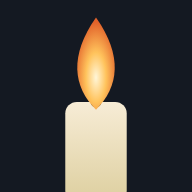
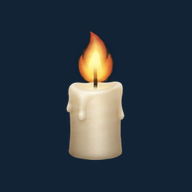
The shelf: headroom, lit plates, her disc in the plinth, her candle
Five things she asked for after seeing it on the phone.

The shelves were too shallow for the cards, which stood at the front lip
of each board and read as propped in front of the furniture rather than
sitting in it. Every shelf now has the same 132px between its ceiling and
where a card's foot lands, got by stretching the flat dark band of back
panel inside each one -- boards, rails, crown and plinth all carried
across rigid, so no joinery moved. The photograph goes from 1088 to 1232
tall and the measurement table with it. A card's foot sits 18px behind the
front lip, so the lit top of the board shows in front of it.

The three upper brass plates sit in shadow and their names could not be
read: mean brightness 70-82 against 132 for the two lower ones. A lit
plate is set into each of those three sockets, feathered at the edge.

The names are no longer tracked out to span their brass. Only the long
ones fill it, which is the honest thing -- spread out, a short name read
as spaced rather than engraved.

Her brass disc is let into the middle of the plinth carving with the ?
engraved into it, and the loose ? button below the case is gone. It is
part of the furniture now, so it lives inside the case and takes the
case's scale, with a wider invisible reach around it for a thumb. With
nothing sitting under the case any more, the case stands on the floor of
the page instead of floating in the middle of it.

Her own candle replaces the drawn one, cut off its ground and wrapped
[…]

Changed region(s): [[0.3125, 0.0938, 0.6875, 1.0]]

diff --git a/index.html b/index.html
@@ -30,15 +30,20 @@
      disappears and the case simply stands on a wall */
   html,body{ height:100%; margin:0; background:#122336; color:#e2d6bb;
     font-family:'Cormorant Garamond', Georgia, serif; }
-  body{ display:flex; align-items:center; justify-content:center; padding:2vh 2vw; }
+  /* The case stands on the floor of the page rather than floating in the middle of
+     it: on a phone its width is what limits it, so centring left as much empty dark
+     below the plinth as above the crown. Nothing sits under it now that the ? has
+     moved onto the plinth itself. */
+  body{ display:flex; align-items:flex-end; justify-content:center;
+    padding:2vh 2vw 3vh; }
 
   /* The frame clips, so a zoomed-in shelf fills it instead of overflowing the page.
      The case must fit the viewport in BOTH directions -- sized by height alone it ran
-     off the sides of a phone and the shelves were cut in half. 1088/990 is the case's
+     off the sides of a phone and the shelves were cut in half. 1232/990 is the case's
      own proportion, so this is the tallest it can be and still fit across. */
   #frame{ position:relative; overflow:hidden; flex:none;
-    --h: min(95vh, calc(96vw * 1.09899), 1088px);
-    height:var(--h); width:calc(var(--h) / 1.09899); }
+    --h: min(95vh, calc(96vw * 1.24444), 1232px);
+    height:var(--h); width:calc(var(--h) / 1.24444); }
   /* Sizes here are fractions of the case's own height, so the lettering keeps its
      proportion to the furniture at every screen size. They cannot be written as
      "unit x px" -- --h is a length, and a length times a length is not a size, so
@@ -112,14 +117,19 @@
   #say-sagne{ top:16%; }
   #say-about{ bottom:9%; }
 
-  /* the quiet ? at the foot of the page */
-  #ask{ position:absolute; left:50%; bottom:1.2%; transform:translateX(-50%);
-    appearance:none; border:0; background:none; cursor:pointer; z-index:31;
-    font-family:inherit; font-size:clamp(18px, 2.4vh, 23px); line-height:1;
-    color:#f2e9d8; opacity:.34; padding:4px 10px; border-radius:8px;
-    transition:opacity .45s ease; }
-  #ask:hover, #ask:focus-visible, #ask[aria-expanded="true"]{ opacity:.9; }
-  #ask:focus-visible{ outline:1px solid rgba(242,233,216,.4); outline-offset:4px; }
+  /* Her brass disc, let into the middle of the plinth carving, with the ? cut into
+     it the way the names are cut into the plates. It is part of the furniture now,
+     so it sits inside the case and takes the case's own scale. */
+  #ask{ position:absolute; display:grid; place-items:center; z-index:3;
+    appearance:none; border:0; background:none; padding:0; font-family:inherit;
+    cursor:pointer; filter:drop-shadow(0 1px 2px rgba(0,0,0,.6)); }
+  #ask img{ grid-area:1/1; width:100%; height:100%; display:block; }
+  #ask i{ grid-area:1/1; font-style:normal; font-weight:700; line-height:1;
+    color:#33230a; text-shadow:0 1px 0 rgba(255,238,196,.5), 0 -1px 1px rgba(0,0,0,.35); }
+  /* A disc this size is a small target on a phone, so the reach around it is wider
+     than the brass. Invisible, and behind nothing else. */
+  #ask::before{ content:''; position:absolute; inset:-55%; }
+  #ask:focus-visible{ outline:1px solid rgba(242,233,216,.45); outline-offset:4px; }
 
   @media (prefers-reduced-motion: reduce){
     #case, .piece{ transition:none; }
@@ -134,6 +144,8 @@
       <div id="sheen"></div>
       <button type="button" id="oval" aria-expanded="false" aria-controls="say-sagne"
               aria-label="what is this?">sagne</button>
+      <button type="button" id="ask" aria-expanded="false" aria-controls="say-about"
+              aria-label="about sagne"><img src="shelfdisk.png" alt=""><i>?</i></button>
     </div>
 
     <!-- The two sayings the flat landing page carried, kept word for word: the one
@@ -143,8 +155,6 @@
       timers (except the tools which are timers), no links (except for location accuracy), no
       likes, no ads, no in-game purchases. nothing exciting, but hopefully something
       enjoyable.</p>
-    <button type="button" id="ask" aria-expanded="false" aria-controls="say-about"
-            aria-label="about sagne">?</button>
     <p class="saying" id="say-about">sagne has been designed by one person, programming by
       claude and images by gemini. it is a single individual's attempt to bring to digital
       life some of life's interesting modes and models. the lack of text and explanations
@@ -162,7 +172,7 @@
   // percentages, which had to be retyped by hand every time the picture changed.
   // ---------------------------------------------------------------------------
   var GEO = {
-    W:990, H:1088,
+    W:990, H:1232,
     interior:{ left:148, right:845 },     // the opening between the two stiles
     // Measured off the photograph by hue, not by eye: the brass rides olive where
     // the walnut around it runs red, which puts the ellipse at x 421..579,
@@ -170,29 +180,40 @@
     // deal taller than the brass, so the name sat low and off to one side of it.
     oval:{ x:421, y:74, w:158, h:49 },    // the brass oval on the crown
     plate:{ x:424, w:147, h:22 },         // the engraved area of a brass plate
+    disc:{ cx:495, cy:1160, d:50 },       // the brass disc, centred on the plinth shell
     card:{ w:76, h:100 },
-    // ceil = underside of the shelf above; surf = the surface this shelf's cards
-    // stand on; plateY = top of the brass plate on this shelf's front rail
+    // A card stands ON the board, not at the lip of it -- its foot goes back from
+    // the front edge by this much, so the lit top surface of the shelf shows in
+    // front of it. Standing them on the lip is what made them read as propped in
+    // front of the furniture rather than sitting in it.
+    seatBack:18,
+    // ceil = underside of the shelf above; surf = the FRONT LIP of the board this
+    // shelf's cards stand on; plateY = top of the brass plate on the front rail.
+    // Aug 2026: every shelf was given the same 132px of headroom between its
+    // ceiling and where a card's foot actually lands, by stretching the flat dark
+    // band of back panel inside each one -- the boards, rails, crown and plinth are
+    // all carried across rigid, so no joinery moved. That took the photograph from
+    // 1088 to 1232 tall, and these figures with it.
     shelves:[
-      { name:'instrumenta', ceil:144, surf:293, plateY:300,
+      { name:'instrumenta', ceil:144, surf:294, plateY:301,
         pieces:[['candler','candler/index.html','candler/candle-card.png'],
                 ['conometer','conometer/index.html','conometer/conometer-card.png'],
                 ['galileo','galileo/index.html','galileo/galileo-card.png'],
                 ['windower','windower/index.html','windower/windower-card.png'],
                 ['storm','storm/index.html','storm/storm-card.png']] },
-      { name:'tactilia', ceil:330, surf:448, plateY:455,
+      { name:'tactilia', ceil:331, surf:481, plateY:488,
         pieces:[['warmler','warmler/index.html','warmler/warmler-card.png'],
                 ['roller','roller/index.html','roller/roller-card.png'],
                 ['kaleidoscope','kaleidoscope/index.html','kaleidoscope/kaleidoscope-card.png']] },
-      { name:'systema', ceil:487, surf:602, plateY:609,
+      { name:'systema', ceil:520, surf:670, plateY:677,
         pieces:[['musebox','musebox/index.html','musebox/musebox-card.png'],
                 ['gyre','gyre/index.html','gyre/gyre-card.png'],
                 ['chimes','chimes/index.html','chimes/chimes-card.png']] },
-      { name:'natura', ceil:641, surf:753, plateY:760,
+      { name:'natura', ceil:709, surf:859, plateY:866,
         pieces:[['birds','birds/index.html','birds/birds-card.png'],
                 ['fireflies','fireflies/index.html','fireflies/fireflies-card.png'],
                 ['ant','ant/index.html','ant/ant-card.png']] },
-      { name:'phenomena', ceil:791, surf:903, plateY:910,
+      { name:'phenomena', ceil:897, surf:1047, plateY:1054,
         pieces:[['lamp','lamp/index.html','lamp/lamp-card.png'],
                 ['rain','rain/index.html','rain/rain-card.png'],
                 ['bowl','bowl/index.html','bowl/bowl-card.png'],
@@ -220,6 +241,12 @@
   ovalEl.style.fontSize='calc(var(--h) * 0.0404)';
   // The veil takes the same box as the oval, a shade proud of it so the mask has
   // somewhere to fade out over the brass rather than at its rim.
+  var askEl=document.getElementById('ask');
+  askEl.style.left=pc(GEO.disc.cx-GEO.disc.d/2,W);
+  askEl.style.top=pc(GEO.disc.cy-GEO.disc.d/2,H);
+  askEl.style.width=pc(GEO.disc.d,W); askEl.style.height=pc(GEO.disc.d,H);
+  askEl.firstElementChild.nextElementSibling.style.fontSize='calc(var(--h) * 0.0262)';
+
   var sheen=document.getElementById('sheen');
   sheen.style.left=pc(GEO.oval.x-8,W);  sheen.style.top=pc(GEO.oval.y-6,H);
   sheen.style.width=pc(GEO.oval.w+16,W); sheen.style.height=pc(GEO.oval.h+12,H);
@@ -227,7 +254,7 @@
   GEO.shelves.forEach(function(sh,si){
     sh.pieces.forEach(function(p,i){
       var cx=slotX(sh.pieces.length,i);
-      var x=cx-GEO.card.w/2, y=sh.surf-GEO.card.h;
+      var x=cx-GEO.card.w/2, y=sh.surf-GEO.seatBack-GEO.card.h;
       var a=document.createElement('a');
       a.className='piece'; a.href=p[1]; a.setAttribute('aria-label',p[0]);
       a.style.left=pc(x,W); a.style.top=pc(y,H);
@@ -274,18 +301,10 @@
       size=Math.max(4, size*r);             // keeps it from ever settling exactly
       el.style.fontSize=size+'px';
     }
-    // A short name is now as tall as the brass allows and still only reaches half
-    // way across it. An engraver's answer, not a typesetter's: track the letters
-    // apart until they span the plate. Capped, or "natura" comes apart into six
-    // separate letters. The negative margin takes back the trailing space that
-    // letter-spacing adds after the last letter, which would push the word left.
-    inner.style.letterSpacing=''; inner.style.marginRight='';
-    var slack=boxW-inner.offsetWidth, n=inner.textContent.length;
-    if(slack>0 && n>1){
-      var ls=Math.min(slack/(n-1), size*0.42);
-      inner.style.letterSpacing=ls+'px';
-      inner.style.marginRight=(-ls)+'px';
-    }
+    // A short name is left centred at the size the height gives it. Tracking it out
+    // to span the plate was tried and it read as spaced-out rather than engraved:
+    // a long name fills its brass because it is long, and a short one should simply
+    // sit in the middle of its own.
   }
   function fit(){
     // None of the five names has a descender, so the letters can run the full
@@ -390,7 +409,7 @@
   // Opening one closes the other, so there is never more than a single block of
   // words on screen at a time.
   var SAYINGS=[[ovalEl, document.getElementById('say-sagne')],
-               [document.getElementById('ask'), document.getElementById('say-about')]];
+               [askEl, document.getElementById('say-about')]];
   function shut(){
     frame.classList.remove('asked');
     SAYINGS.forEach(function(pair){

diff --git a/CLAUDE.md b/CLAUDE.md
@@ -115,13 +115,30 @@ which had no vertical front edge at all, only a floor, had the fourth rail clone
 the floor line so its plate had something to sit on. The scripts that did all this are gone
 with their scratchpad, so treat `shelves.jpg` as the source of truth.
 
+**A card stands on the board, not at the lip of it.** Aug 2026 the shelves were given
+headroom: every one now has the same 132px between its ceiling and where a card's foot
+lands, done by stretching the flat dark band of back panel inside each shelf while the
+boards, rails, crown and plinth were carried across rigid. That took the photograph from
+1088 to 1232 tall. A card's foot sits `seatBack` (18px) behind the front lip, so the lit
+top of the shelf shows in front of it — standing them on the lip is what made them read as
+propped in front of the furniture. The three upper brass plates were in shadow and their
+names couldn't be read, so a lit plate was set into each of those sockets. The **?** is a
+brass disc of hers (`shelfdisk.png`) let into the middle of the plinth carving, with the
+question mark engraved into it; the case stands on the floor of the page rather than
+floating in the middle of it.
+
+**The favicon** is her own candle, cut off its ground and wrapped inside `favicon.svg`, so
+every page that already links to that file picks it up without a reference changing. The
+same cut-out makes `apple-touch-icon.png` and `icon-192/512.png` on the site's navy.
+
 **No words on it that aren't cut into it.** The only lettering on the shelf is engraved
 into the photograph: *sagne* on the crown oval and the five group names on the brass
 plates. The card names that used to float over a piece on hover were removed Aug 2026 —
 this site doesn't caption its objects — and so was the text **back** button; the way out
 of a zoom is the plate of the shelf you're in, a tap on the dark around the case, or
-Escape. The plate names size themselves to fill the brass (height first, then tracked out
-across the width, which is what an engraver does with a short word), and the oval's
+Escape. The plate names size themselves to the height of the brass and sit centred in it — they
+were tracked out across the width for a while, and it read as spaced-out rather than
+engraved. The oval's
 position comes from the brass measured out of the photograph by hue, not by eye. Don't add
 a visible label to this page.
 
